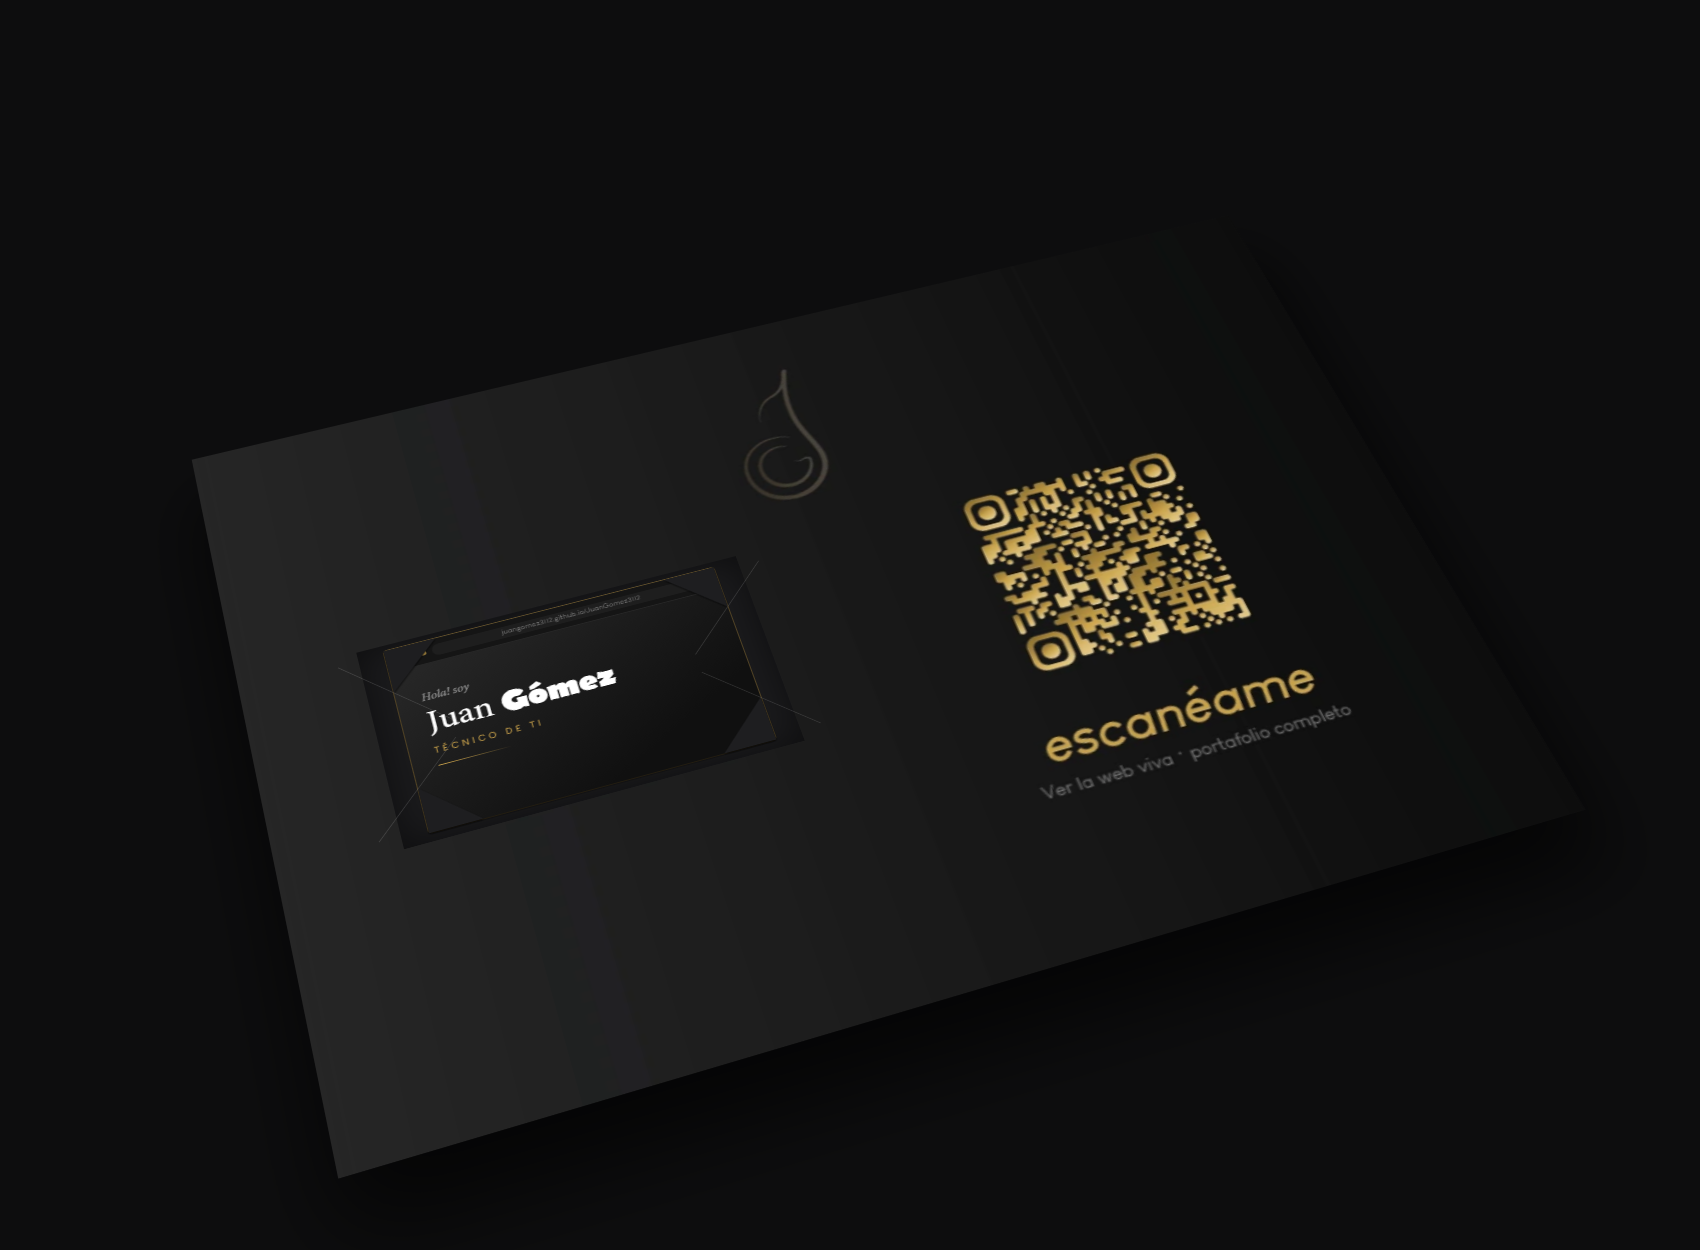
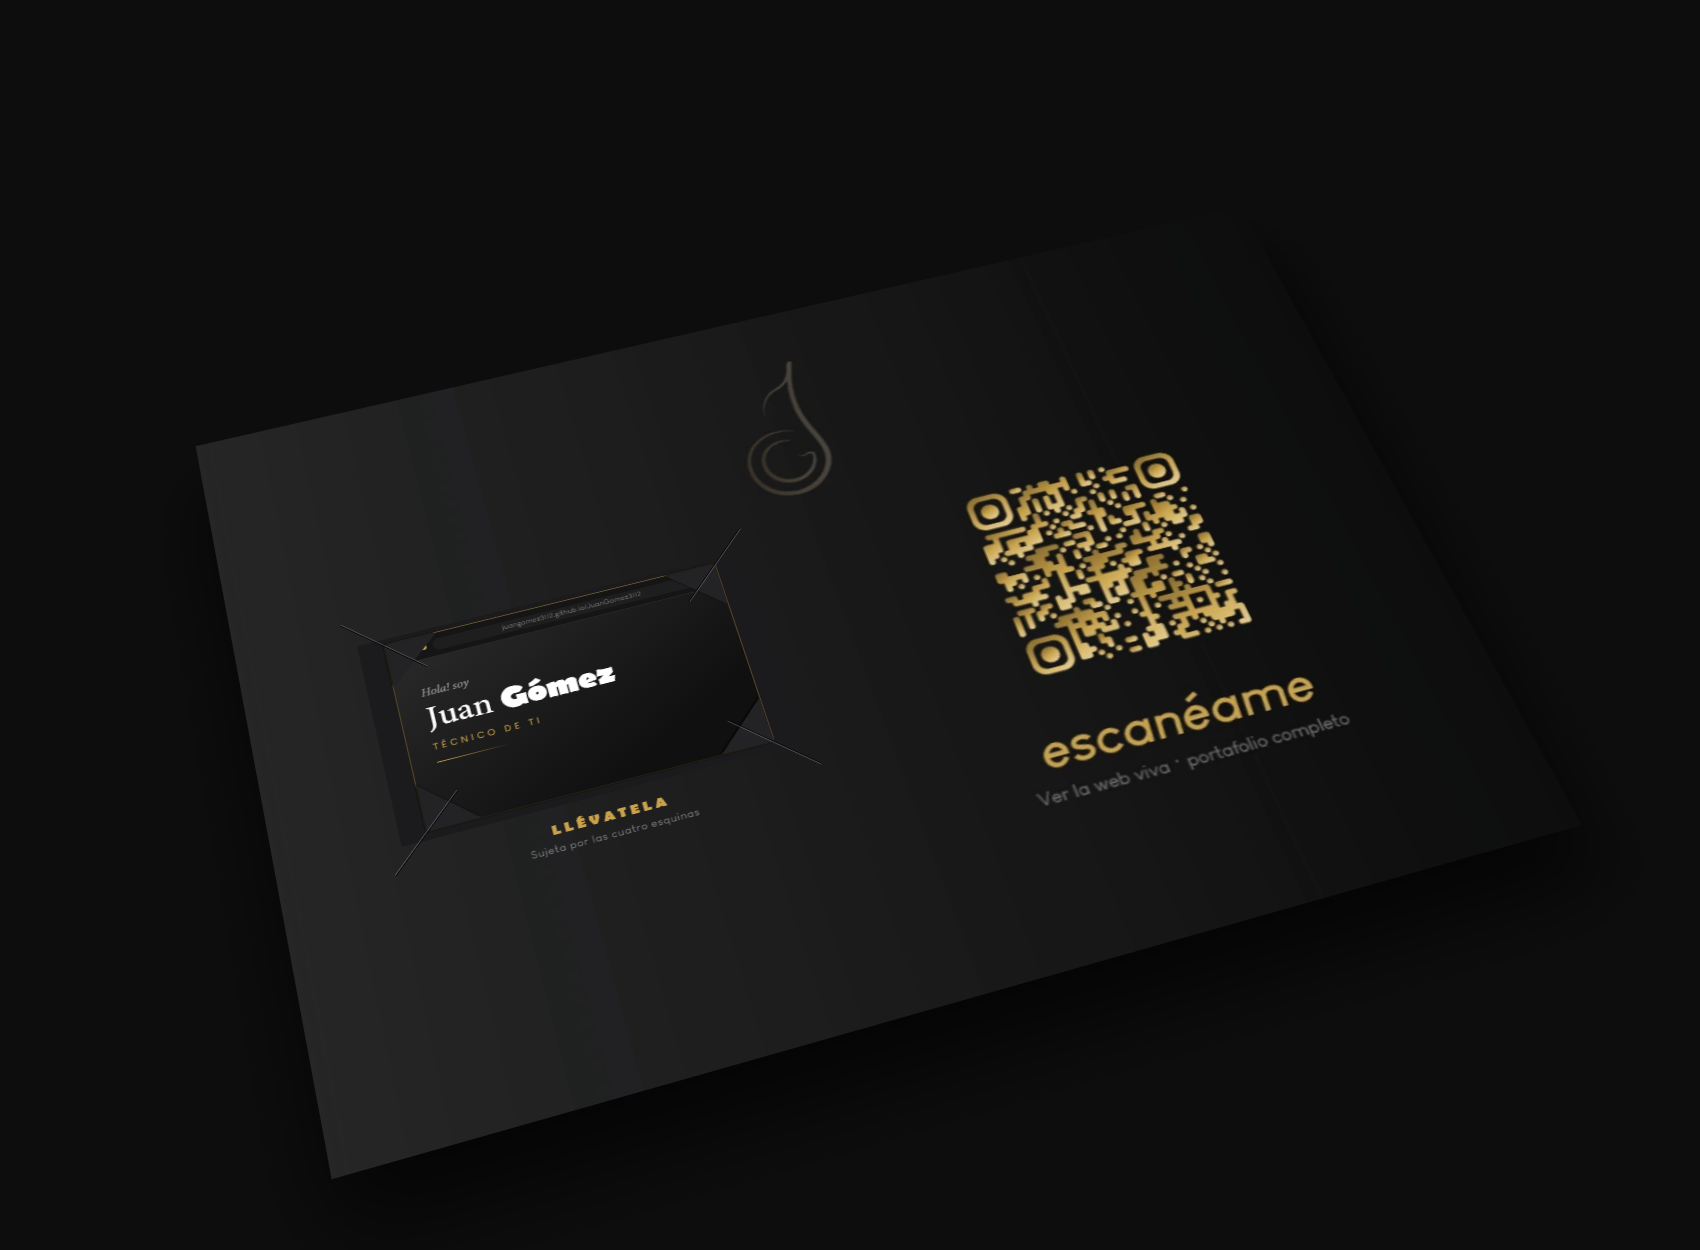
docs(cv): cortes visibles en la simulacion y texto bajo la tarjeta
No se veia de donde se agarra la tarjeta. Dos arreglos en la simulacion:

- Los cortes ahora se dibujan desde la misma geometria del troquel, asi que
  asoman 9.2 mm por fuera de cada esquina, que es lo que de verdad delata que
  el papel esta cortado. Antes eran una linea tenue que se perdia.
- Cada corte se pinta como se ve un papel cortado a contraluz: filo oscuro con
  un brillo de 1 px al lado. Y las solapas llevan sombra hacia dentro.

Anadido el texto bajo la tarjeta, centrado sobre ella:
  "LLEVATELA" en oro, y debajo "Sujeta por las cuatro esquinas".
Posicion: x=36 mm, ancho 85 mm, arranca en y=138 mm.

La segunda linea no es decorativa: sin ella mucha gente no se da cuenta de que
la tarjeta sale, sobre todo con el canto oscuro sobre papel oscuro.

diff --git a/src/data/curriculum/troquel/simulacion-tarjeta.html b/src/data/curriculum/troquel/simulacion-tarjeta.html
@@ -4,25 +4,17 @@
        font-family:"Louis George Cafe","Segoe UI",sans-serif}
   .escena{perspective:2400px;perspective-origin:50% 42%;padding:60px}
   .panel{position:relative;width:1188px;height:840px;transform-style:preserve-3d;
-         transform:rotateX(38deg) rotateZ(-18deg);box-shadow:0 55px 80px rgba(0,0,0,.7)}
+         transform:rotateX(36deg) rotateZ(-17deg);box-shadow:0 55px 80px rgba(0,0,0,.7)}
   .panel > img{width:100%;height:100%;display:block}
-
-  /* tapa la maqueta que hay en el arte: era una simulacion y se borra */
-  .tapa{position:absolute;left:118px;top:301px;width:392px;height:237px;
-        background:#1b1b1d;box-shadow:inset 0 0 40px rgba(0,0,0,.5)}
-
-  /* hueco: sombra dentro del papel, para que la tarjeta se vea METIDA */
-  .hueco{position:absolute;left:144px;top:308px;width:340px;height:220px;border-radius:3px;
-         background:#141416;box-shadow:inset 0 3px 7px rgba(0,0,0,.9), inset 0 -1px 0 rgba(255,255,255,.05)}
-
-  /* tarjeta: apoyada en el hueco, sin translateZ ni sombra flotante */
-  .tarjeta{position:absolute;left:144px;top:308px;width:340px;height:220px;border-radius:4px;
-           overflow:hidden;background:linear-gradient(150deg,#2a2a2a 0%,#101010 78%);
-           box-shadow:0 1px 2px rgba(0,0,0,.9), 0 0 0 1px rgba(201,162,75,.45)}
-  .barra{position:absolute;inset:0 0 auto 0;height:28px;background:#151515;
-         border-bottom:1px solid #262626;display:flex;align-items:center;gap:6px;padding:0 10px}
-  .punto{width:6px;height:6px;border-radius:50%;background:#3a3a3a}
-  .punto.on{background:#C9A24B}
+  .tapa{position:absolute;left:118px;top:301px;width:392px;height:237px;background:#1b1b1d}
+  .hueco{position:absolute;left:144.0px;top:308.0px;width:340.0px;height:220.0px;border-radius:3px;
+         background:#141416;box-shadow:inset 0 3px 8px rgba(0,0,0,.95)}
+  .tarjeta{position:absolute;left:144.0px;top:308.0px;width:340.0px;height:220.0px;border-radius:4px;
+           overflow:hidden;background:linear-gradient(150deg,#2b2b2b 0%,#101010 78%);
+           box-shadow:0 1px 2px rgba(0,0,0,.9), 0 0 0 1px rgba(201,162,75,.5)}
+  .barra{position:absolute;inset:0 0 auto 0;height:28px;background:#151515;border-bottom:1px solid #262626;
+         display:flex;align-items:center;gap:6px;padding:0 10px}
+  .punto{width:6px;height:6px;border-radius:50%;background:#3a3a3a} .punto.on{background:#C9A24B}
   .url{flex:1;height:14px;border-radius:8px;background:#1e1e1e;display:flex;align-items:center;
        justify-content:center;font-size:8px;color:#7d7d7d}
   .cuerpo{position:absolute;left:24px;right:24px;top:58px}
@@ -32,35 +24,33 @@
   .nombre .n2{font-family:"Berlin Sans FB Demi","Berlin Sans FB",sans-serif;font-weight:700}
   .rol{margin-top:9px;font-size:10px;letter-spacing:3.4px;text-transform:uppercase;color:#C9A24B}
   .hair{height:1px;width:72px;margin-top:12px;background:linear-gradient(90deg,#C9A24B,transparent)}
-
-  /* solapas de papel que muerden las esquinas: van POR ENCIMA de la tarjeta */
-  .solapa{position:absolute;width:0;height:0;filter:drop-shadow(0 1px 1px rgba(0,0,0,.8))}
-  .filo{position:absolute;width:132px;height:1px;background:rgba(255,255,255,.13);transform-origin:center}
+  .solapa{position:absolute;width:0;height:0;filter:drop-shadow(-1px -1px 1px rgba(0,0,0,.9))}
+  /* el corte: linea oscura con brillo al lado, como un papel cortado a la luz */
+  .corte{position:absolute;height:2px;transform-origin:left center;
+         background:linear-gradient(180deg,rgba(255,255,255,.22) 0 1px, rgba(0,0,0,.95) 1px 2px)}
+  /* texto bajo la tarjeta */
+  .pie{position:absolute;left:144.0px;top:552.0px;width:340.0px;text-align:center}
+  .pie b{display:block;font-family:"Berlin Sans FB Demi","Berlin Sans FB",sans-serif;
+        font-size:15px;letter-spacing:3.4px;text-transform:uppercase;color:#C9A24B}
+  .pie span{display:block;margin-top:5px;font-size:11px;color:#7e7e82;letter-spacing:.6px}
 </style></head><body>
 <div class="escena"><div class="panel">
   <img src="http://127.0.0.1:8777/src/assets/img/curriculum/cv-cara6-contraportada.webp" alt="">
-  <div class="tapa"></div>
-  <div class="hueco"></div>
-
+  <div class="tapa"></div><div class="hueco"></div>
   <div class="tarjeta">
     <div class="barra"><i class="punto"></i><i class="punto"></i><i class="punto on"></i>
       <span class="url">juangomez3112.github.io/JuanGomez3112</span></div>
-    <div class="cuerpo">
-      <p class="hola">Hola! soy</p>
+    <div class="cuerpo"><p class="hola">Hola! soy</p>
       <p class="nombre"><span class="n1">Juan</span> <span class="n2">Gómez</span></p>
-      <p class="rol">Técnico de TI</p>
-      <div class="hair"></div>
-    </div>
+      <p class="rol">Técnico de TI</p><div class="hair"></div></div>
   </div>
-
-  <!-- 4 esquinas de papel sobre la tarjeta (52 px = 13 mm de mordida) -->
-  <div class="solapa" style="left:144px;top:308px;border-left:52px solid #1e1e20;border-bottom:52px solid transparent"></div>
-  <div class="solapa" style="left:432px;top:308px;border-right:52px solid #1e1e20;border-bottom:52px solid transparent"></div>
-  <div class="solapa" style="left:144px;top:476px;border-left:52px solid #1e1e20;border-top:52px solid transparent"></div>
-  <div class="solapa" style="left:432px;top:476px;border-right:52px solid #1e1e20;border-top:52px solid transparent"></div>
-  <!-- filo del corte, que es lo que delata que el papel esta cortado -->
-  <div class="filo" style="left:78px;top:360px;transform:rotate(45deg)"></div>
-  <div class="filo" style="left:418px;top:360px;transform:rotate(-45deg)"></div>
-  <div class="filo" style="left:78px;top:476px;transform:rotate(-45deg)"></div>
-  <div class="filo" style="left:418px;top:476px;transform:rotate(45deg)"></div>
+  <div class="solapa" style="left:144px;top:308px;border-left:52px solid #232326;border-bottom:52px solid transparent"></div>
+  <div class="solapa" style="left:432px;top:308px;border-right:52px solid #232326;border-bottom:52px solid transparent"></div>
+  <div class="solapa" style="left:144px;top:476px;border-left:52px solid #232326;border-top:52px solid transparent"></div>
+  <div class="solapa" style="left:432px;top:476px;border-right:52px solid #232326;border-top:52px solid transparent"></div>
+  <div class="corte" style="left:107.2px;top:271.2px;width:104.0px;transform:rotate(45.0deg)"></div>
+  <div class="corte" style="left:520.8px;top:271.2px;width:104.0px;transform:rotate(135.0deg)"></div>
+  <div class="corte" style="left:107.2px;top:564.8px;width:104.0px;transform:rotate(-45.0deg)"></div>
+  <div class="corte" style="left:520.8px;top:564.8px;width:104.0px;transform:rotate(-135.0deg)"></div>
+  <div class="pie"><b>Llévatela</b><span>Sujeta por las cuatro esquinas</span></div>
 </div></div></body></html>
